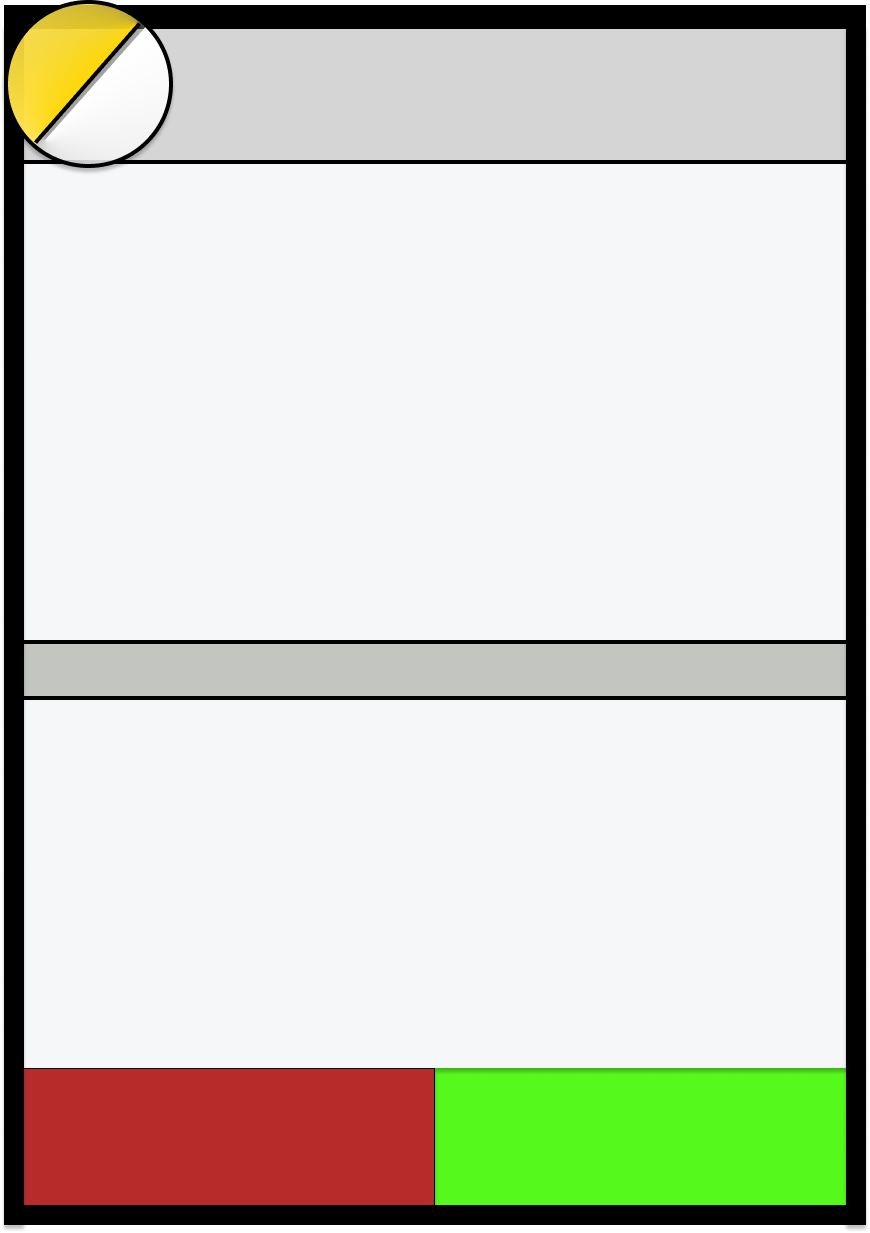
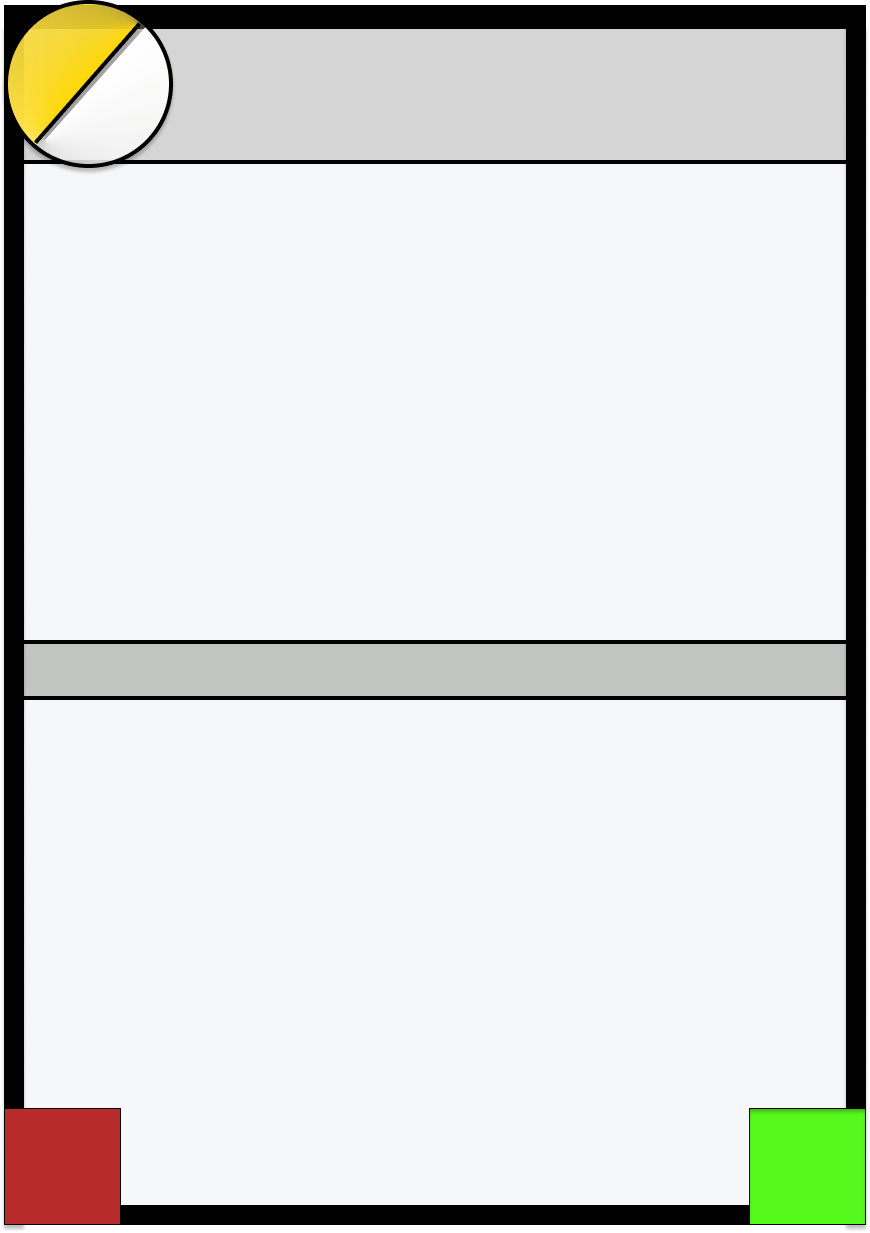
tentativa de tirar foto da carta

Changed region(s): [[0.0, 0.8629, 1.0, 1.0]]

diff --git a/pages/index.js b/pages/index.js
@@ -1,6 +1,8 @@
-import React from 'react';
+import Rect from 'react';
 import Head from 'next/head';
 import $ from "jquery"
+import domtoimage from 'dom-to-image';
+import { saveAs } from 'file-saver';
 
 import Content from '../src/components/Content/Content';
 import Input from '../src/components/Input/Input';
@@ -28,12 +30,23 @@ export default function Home() {
   var BGATUAL = "/" + BG + ".png";
   const [MV, setMV] = React.useState('arrow1');
   var MVATUAL = "/" + MV + ".png";
+
   var digits = nome.length;
+  var digitsEffect = effect.length;
+  var fontsize;
   var NOME;
   var CUSTO;
   var IMG;
   var EFFECT;
-
+  if(digitsEffect <= 120){
+    fontsize = 19;
+  } else {if(digitsEffect > 120 && digitsEffect <= 180){
+    fontsize = 17
+  } else {if(digitsEffect > 180 && digitsEffect <= 240){
+    fontsize = 16
+  } else {if(digitsEffect > 240){
+    fontsize = 15
+  }}}}
 
   if(BG == "spell"||BG == "trap"||BG == "terrain"){
     EFFECT = "effectTrue"
@@ -61,21 +74,23 @@ export default function Home() {
     <>
     <Head>
       <title>Meu criador de cartas</title>
+      <link rel="preconnect" href="https://fonts.gstatic.com"/>
+      <link href="https://fonts.googleapis.com/css2?family=Oi&display=swap" rel="stylesheet"/>
     </Head>
  <Content>
-      <Card >
+      <Card id="CARD">
         <ImgBg src={`${BGATUAL}`} alt="Bgatual"></ImgBg>
         <Top>
         <span className={CUSTO} hidden={(BG == "queen")}>{`${custo}`}</span>
         <span className="ganho" hidden={!(BG == "creature" ||BG == "construction")}>{`${ganho}`}</span>
         <span className={NOME}>{`${nome}`}</span>
-        <span className="mov" hidden={!(BG == "creature")}>{`${mov}`}</span>
+        <span className="mov" hidden={!(BG == "creature")} style={{ fontWeight: "600", fontFamily: "'Oi', cursive", fontSize: "20px" }}>{`${mov}`}</span>
         </Top>
         <ImgMov src={`${MVATUAL}`} alt="MVatual" hidden={!(BG == "creature")}></ImgMov>
         <Main>
         <img className={IMG} src={`${image}`} alt="image"></img>
         <p className="desc">{`${desc}`}</p>
-        <div id="text" className={EFFECT}></div>
+        <div id="text" className={EFFECT} style={{ fontSize: `${fontsize}px`}}></div>
         </Main>
         <Status>
         <Status.dano hidden={BG == "spell"||BG == "trap"||BG == "terrain"}>{`${dano}`}</Status.dano>
@@ -124,23 +139,26 @@ export default function Home() {
           <label for="descricão">Descricão</label>
           <Input id="descricão" name="descricão" onChange={(dados) =>{setDesc(dados.target.value)}} value={desc}/>
           
-          <p hidden={true} >Efeitos</p>
+          <p hidden={false} >Efeitos</p>
           <textarea id="edit" name="efeitos" hidden={false}  onChange={(dados) =>{setEffect(dados.target.value) 
           // o value= effect deixou de ser usado há um tempo no projeto, mas foi mantido caso eu mude de ideia no futuro
                     
           var keywords = {
-            ":Destruir:" : 'Destruir',
-            ":Obliterar:": 'Obliterar',
-            ":Temporaria:":'Temporaria'};
+            ":Dest:" : 'Destruir',
+            ":Obli:": 'Obliterar',
+            ":Temp:": 'Temporaria',
+            ":Ate:": 'Aterrar'};
 
-          var keyimgs = {":virar:" : 'virar'};
+          var keyimgs = {
+          ":v:" : 'virar',
+           ":t:": 'time'};
 
-          var quebra = {":quebra:" : "quebra"} 
+          var quebra = {":q:" : "quebra"} 
 
           var text = document.querySelector("#edit").innerHTML;
 
          $.each(keyimgs, function(key, link) {
-          var LINK = "/" + link + ".jpg" 
+          var LINK = "/" + link + ".png" 
           text = text
           .replace(new RegExp(key, 'g'), "<img class='"+ link + "'src='" + LINK + "'>");
       });
@@ -150,10 +168,11 @@ export default function Home() {
        });
          $.each(quebra, function(key) {
           text = text
-           .replace(new RegExp(key, 'g'), "<br>");
+           .replace(new RegExp(key, 'g'), "<p></p>");
         });
 
          $('#text').html(text);
+         
           }} value={effect}></textarea>
           <div>
           <label for="dano" hidden={BG == "spell"||BG == "trap"||BG == "terrain"}>Dano</label>
@@ -162,6 +181,13 @@ export default function Home() {
           <Input id="vida" hidden={BG == "spell"||BG == "trap"||BG == "terrain"} name="vida" type="number" min="0" onChange={(dados) =>{setVida(dados.target.value)}} value={vida}/>
           </div>
         </form>
+        <button 
+          onClick={
+          domtoimage.toBlob(document.getElementById('CARD'))
+          .then(function (blob) {
+              window.saveAs(blob, 'card.png');
+          })}>
+          Salvar</button>
       </Maker>
     </Content>
     </>

diff --git a/src/components/Top/Top.js b/src/components/Top/Top.js
@@ -10,27 +10,36 @@ position: absolute;
 /*position: inherit;*/
 top: 97px;
 z-index: 3;
+font-weight: 600;
 .custo1{
     color: black;
     position: absolute;
-    left: 20px;
+    text-align:center;
+    width: 10%;
+    left: 10px;
     top: 10px;
+    
 };
 .custo2{
     color: black;
     position: absolute;
     justify-self: center;
+    text-align: center;
     left: 30px;
+    
     /*top: 25px;*/
 }
 .ganho{
-    color: blue;
+    color: black;
     position: absolute;
-    left: 40px;
-    top: 30px;
+    width: 10%;
+    text-align: center;
+    left: 29px;
+    top: 32px;
+    
 };
 .nome1{
-    color: red;
+    
     position: absolute;
     font-size: 19px;
     max-width: 195px;
@@ -40,7 +49,7 @@ z-index: 3;
     left: 70px;
 };
 .nome2{
-    color: red;
+    
     position: absolute;
     font-size: 15px;
     max-width: 195px;
@@ -50,7 +59,8 @@ z-index: 3;
     left: 70px;
 };
 .nomeQueen{
-    color: blue;
+    font-weight: 800;
+    color: black;
     position: absolute;
     font-size: 28px;
     width: 300px;
@@ -60,7 +70,8 @@ z-index: 3;
     left: 10px;
 };
 .nomeQueen2{
-    color: blue;
+    font-weight: 800;
+    color: Black;
     position: absolute;
     font-size: 20px;
     width: 300px;
@@ -70,11 +81,15 @@ z-index: 3;
     left: 10px;
 };
 .mov{
-    color: red;
-    font-weight: 600;
+    color: white;
+    font-size: 20px;
+    
     position: absolute;
-    left: 293px;
+    width: 10%;
+    text-align: center;
+    left: 281px;
     right: 0px;
+    
 }
 `;
 

diff --git a/src/components/Main/Main.js b/src/components/Main/Main.js
@@ -11,7 +11,7 @@ z-index: 3;
 .img1{
 z-index: 5;
 width: 308px;
-height: 178px;
+height: 179px;
 position: absolute;
 left: 9px;
 bottom: -9px;
@@ -40,20 +40,31 @@ bottom: -7px;
     width: 302px;
     height: 138px;
     left: 9px;
-    top: 30px;
+    top: 35px;
+    line-height: 18.5px;
     padding-left: 5px;
     overflow: hidden;
 
+
+};
+.effect > p{
+    font-size: 10px;
 };
 .effectTrue{
     position: absolute;
     width: 302px;
     height: 188px;
     left: 9px;
-    top: 30px;
+    top: 35px;
+    line-height: 18.5px;
     padding-left: 5px;
     overflow: hidden;
+
 };
+.effectTrue > p{
+    font-size: 10px;
+};
+
 .Destruir{
     color: red;
 };
@@ -63,9 +74,16 @@ bottom: -7px;
 .Temporaria{
     color: blue;
 };
+.Aterrar{
+    color: rgb(139,69,19);
+};
 .virar{
-    width: 18px;
-    height: 18px;
-}
+    width: 20px;
+    height: 20px;
+};
+.time{
+    width: 20px;
+    height: 20px;
+};
 `;
 export default Main;

diff --git a/src/components/Status/Status.js b/src/components/Status/Status.js
@@ -4,21 +4,27 @@ const Status = styled.div `
 display: flex;
 justify-content: space-between;
 position: absolute;
-left: 107px;
-bottom: 108px;
+left: 95px;
+bottom: 100px;
 width: 308px;
-height: 50.875px;
+height: 45px;
 align-items: center;
+font-weight: 600;
 z-index: 4;
 /*padding: 20px 90px;*/
 
 `;
 Status.dano = styled.span `
-width: 50%;
+position: absolute;
+width: 10%;
+left: 10px;
 text-align: center;
 `;
 Status.vida = styled.span `
-width: 50%;
+position: absolute;
+width: 10%;
+right: -13px;
 text-align: center;
+
 `;
 export default Status;
